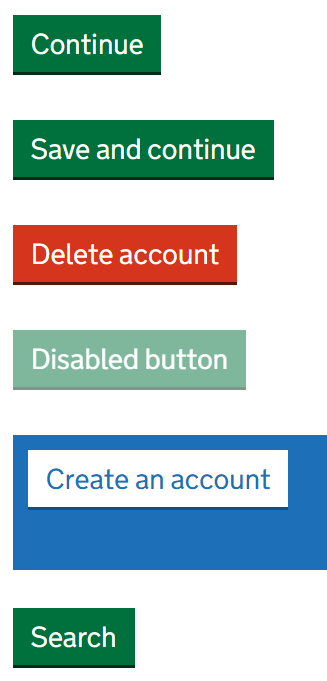
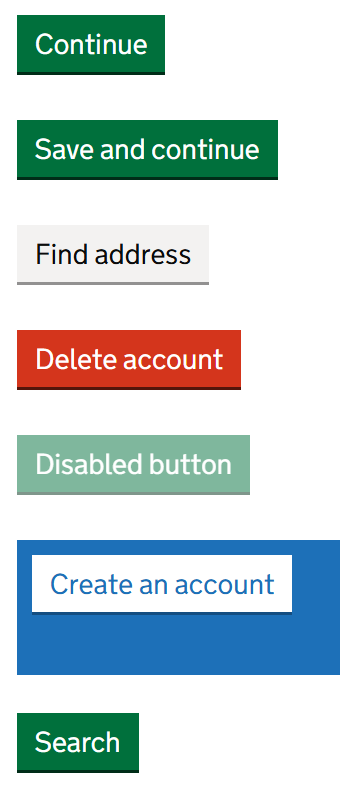
Add secondary button example for completeness

diff --git a/GdsBlazorComponents/Examples/Button.md b/GdsBlazorComponents/Examples/Button.md
@@ -29,6 +29,10 @@ Render a GOV.UK Design System styled button that can be used to submit forms or 
 ```
 
 ```csharp
+<GdsButton AdditionalCssClasses="govuk-button--secondary" Text="Find address" />
+```
+
+```csharp
 <GdsButton AdditionalCssClasses="govuk-button--warning" Text="Delete account" />
 ```
 
